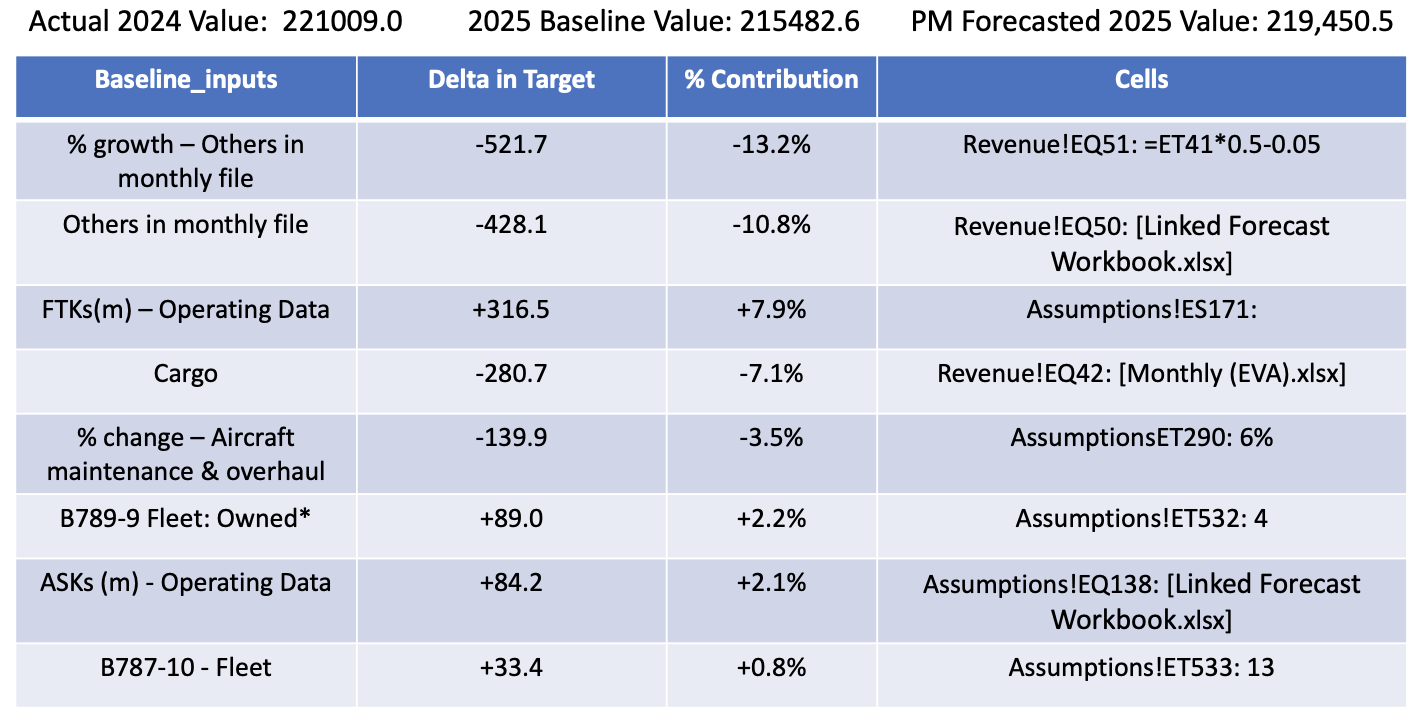
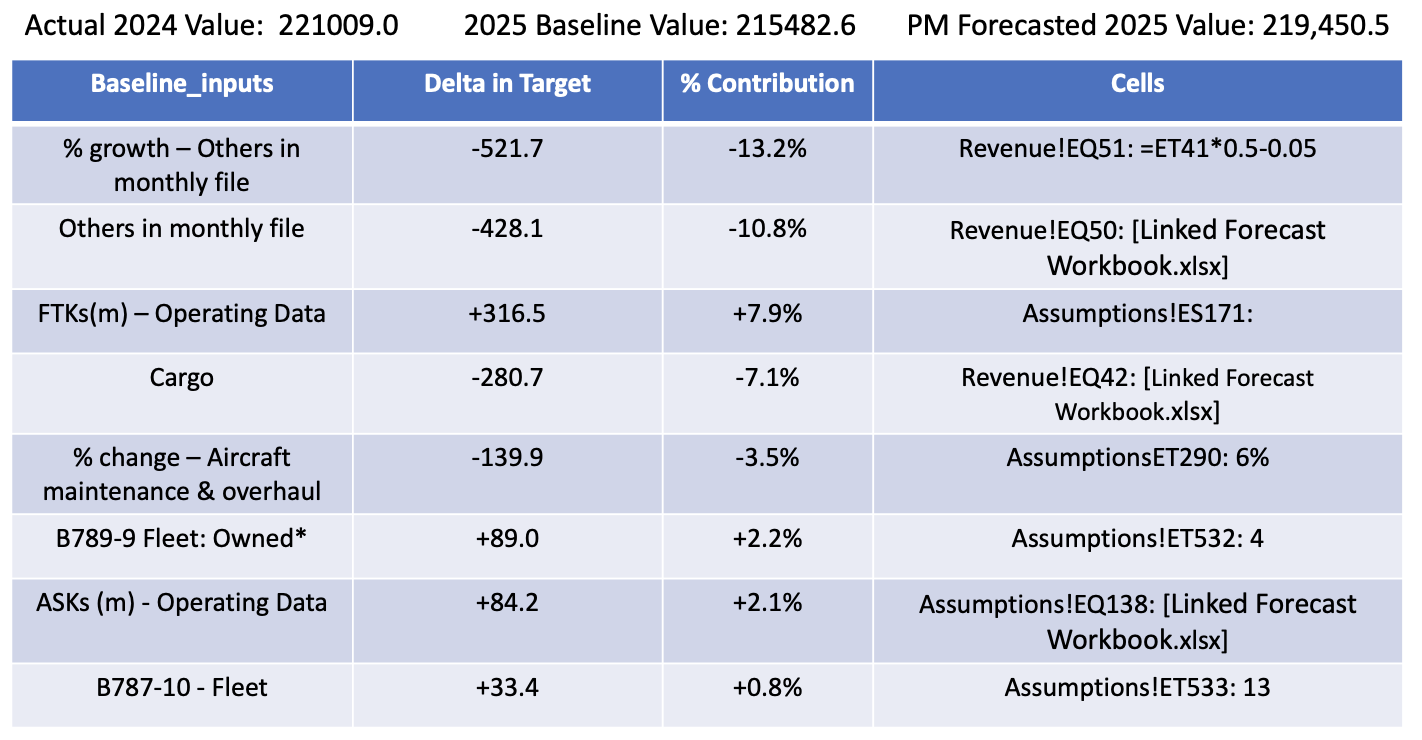
Update project screenshots

diff --git a/README.md b/README.md
@@ -39,6 +39,23 @@ Example output generated by the framework:
 
 ---
 
+---
+
+## How It Works
+
+1. Upload or connect to an Excel forecast workbook
+2. Select:
+   - target sheet
+   - target variable
+   - forecast period
+3. The framework recursively traces Excel dependencies
+4. Terminal forecast drivers are identified
+5. Baseline forcing methodology is applied
+6. Attribution contributions are calculated
+7. A formatted attribution report is generated
+
+---
+
 ## Technology Stack
 
 - Python
@@ -79,23 +96,6 @@ financial-model-attribution-engine/
 └── .gitignore
 ```
 
----
-
-## How It Works
-
-1. Upload or connect to an Excel forecast workbook
-2. Select:
-   - target sheet
-   - target variable
-   - forecast period
-3. The framework recursively traces Excel dependencies
-4. Terminal forecast drivers are identified
-5. Baseline forcing methodology is applied
-6. Attribution contributions are calculated
-7. A formatted attribution report is generated
-
----
-
 ## Important Note
 
 This repository contains a sanitized demonstration version of the original framework.
@@ -103,28 +103,12 @@ This repository contains a sanitized demonstration version of the original frame
 The production workflow relied on proprietary financial models and internally linked Excel forecasting systems that are not publicly distributable.
 
 As a result:
-- sample workbooks and outputs are simplified
 - internal company infrastructure is excluded
 - certain production-specific dependencies are intentionally omitted
 
 The purpose of this repository is to demonstrate the underlying engineering architecture, attribution methodology, and Excel dependency tracing framework.
 
----
-
-## Future Improvements
-
-Potential future enhancements include:
-- improved UI/UX
-- interactive visualization
-- deployment support
-- additional attribution methodologies
-- expanded workbook compatibility
-
----
 
 ## Author
 
 Pengxin Li
-
-MS in Financial Economics  
-Columbia Business School
